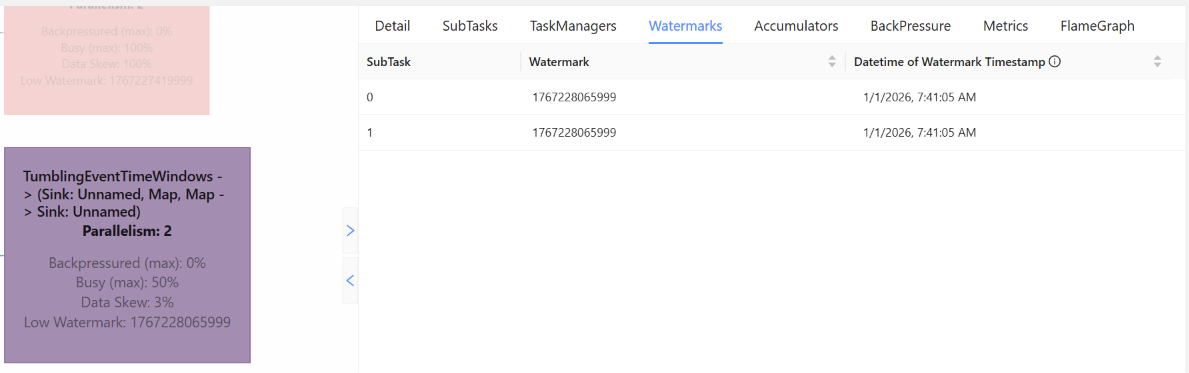
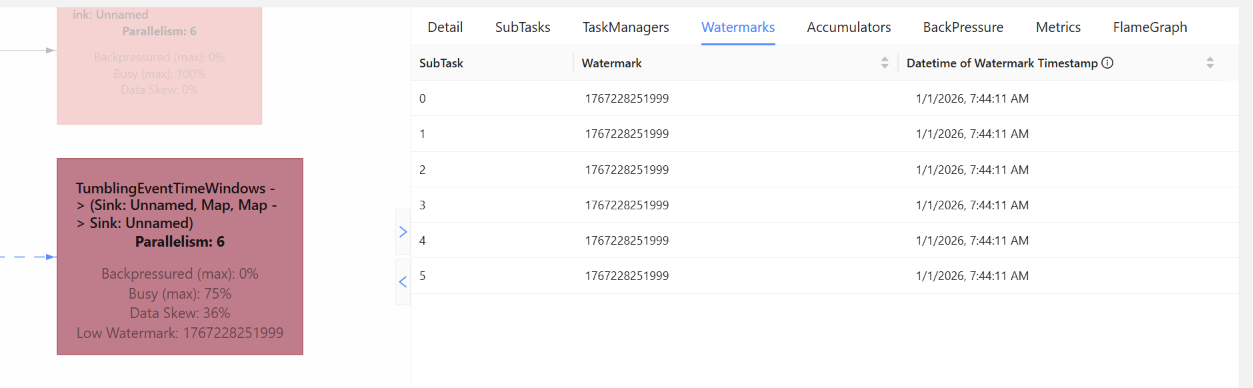
docs(edai-1): compare flink baseline and optimized runs against ground truth

diff --git a/docs/edai-1/processing_jobs.md b/docs/edai-1/processing_jobs.md
@@ -71,40 +71,77 @@ chạy tiếp. Log task đọc lại được trên Airflow UI nhờ remote logg
 
 **Cần nộp (cả nhóm):** Document giải thích từng step optimize từ baseline như thế nào, dùng Flink UI như thế nào (nhớ show hình ảnh để thấy rõ các vấn đề, và giải thích vấn đề)
 
-**Cách làm:** [Đã có] Cờ `BASELINE=True` chạy Flink với watermark 0 giây, không khử trùng. [Cần làm] chụp Flink UI: số event trễ bị bỏ và kết quả window sai.
+**Cách làm:** [Đã có] Cờ `BASELINE=True` chạy Flink với watermark 0 giây, không khử trùng. Chạy cả baseline và bản tối ưu trên GKE: baseline thừa đúng số bản gửi trùng (7.547 ngày 2026-01-01) và đẩy 8.326 event ra side output; bản tối ưu lệch truth 0,011%. Bảng đối soát, Flink UI (graph, backpressure) trong docs.
 
-**Kết quả:** bản tối ưu chạy trên GKE (2026-11-17, FlinkDeployment `booking-events-window`, parallelism 2, replay 30 ngày
-`booking_events` vào Kafka 6 partition, khoảng 83.600 event lúc chụp). Chưa chạy bản `BASELINE=True` để so sánh.
+**Kết quả:** Cả hai bản chạy trên GKE với cùng dữ liệu: replay `booking_events` (30 ngày, Kafka 6 partition) từ đầu topic,
+FlinkDeployment `booking-events-window` parallelism 6. Baseline chạy ngày 2026-11-17 (`BASELINE=1`, image
+`flink-booking:9850a46-2`), bản tối ưu chạy ngày 2026-11-18 (image `c93fff3-1`). Mỗi lần xoá 3 bảng stream rồi
+đọc lại từ offset đầu. `got` của một ngày = tổng `gold.stream_bookings_1m` + số dòng `gold.stream_late_bookings`
+có `event_time` trong ngày; truth là số booking hợp lệ đã khử trùng do `generator/stream_truth.py` tính từ event
+log, cắt tại 2026-01-03 01:00.
 
-![Offset 6 partition của topic booking_events](../images/edai-1/kafka-offsets.png)
+![Đối soát baseline, bản tối ưu và truth](../images/edai-1/flink-perday-compare.png)
 
-Đọc Flink UI: graph cho thấy source bị backpressure 98% trong khi `SlidingEventTimeWindows` bận 100%. Cửa sổ trượt
-1 giờ bước 5 phút đưa mỗi event vào 12 cửa sổ và chạy bằng Python, nên đây là nút cổ chai khi job đọc dồn backlog
-từ đầu topic. Khi đã đuổi kịp tốc độ replay, các operator về trạng thái OK (ảnh BackPressure).
+Baseline (watermark 0 giây, không khử trùng) cho thấy hai vấn đề:
+
+- **Đếm thừa.** Ngày 2026-01-01 baseline đếm 384.084, truth là 376.537: thừa đúng 7.547, bằng số bản gửi trùng
+  (double submit cùng `idempotency_key`) generator cài vào; ngày 2026-01-02 thừa 7.852 so với 7.437 bản trùng.
+- **Coi event lệch thứ tự là trễ.** Không chờ event đến lệch thứ tự nên 8.326 booking của ngày 01-01 (2,2%) bị đẩy
+  ra side output thay vì vào đúng cửa sổ phút.
+
+Các bước tối ưu, mỗi bước một vấn đề:
+
+1. **Parallelism = số partition Kafka (6).** Timestamp gán sau source; một subtask đọc nhiều partition thì watermark
+   chạy theo partition nhanh nhất, event của partition chậm thành trễ giả (đo với parallelism 2: 2.409 event trễ giả).
+2. **Watermark lệch 10 phút + allowed lateness 5 phút** (dòng 17): số event bị đẩy ra side output ngày 01-01 giảm từ
+   8.326 xuống 1.719.
+3. **Khử trùng theo `idempotency_key`** trước cửa sổ (dòng 18): phần đếm thừa từ 7.547 còn 43 (0,011%).
+4. **Contract trước watermark:** event sai (`event_time` ở tương lai) ra DLQ trước khi kịp đẩy watermark.
+5. **Đếm tăng dần bằng `AggregateFunction`**: state mỗi cửa sổ là một số nguyên thay vì danh sách event.
+6. **Unaligned checkpoint** và chặn autoscaler gỡ pod Flink: lúc đọc dồn backlog, barrier aligned kẹt sau buffer
+   đầy nên checkpoint không xong; restart khi đó mất toàn bộ tiến độ.
+
+Đọc Flink UI lúc đọc dồn backlog: source bị backpressure, `SlidingEventTimeWindows` bận 100% ở cả 6 subtask vì mỗi
+event vào 12 cửa sổ chồng nhau và chạy bằng Python, đó là nút cổ chai (ảnh BackPressure). Watermark của 6 subtask
+bằng nhau vì sau `key_by` mỗi subtask nhận watermark nhỏ nhất của các subtask phía trước.
 
 ![Job graph](../images/edai-1/flink-job-graph.png)
 
 ![BackPressure](../images/edai-1/flink-backpressure.png)
 
-Ba lỗi phải sửa để job chạy trên Kubernetes: jar connector tải bằng `ADD` có quyền 600 nên user `flink` không đọc
-được (`--chmod=644`); Python worker trên TaskManager không thấy module `contract` (`-pyfs /opt/flink/usrlib`); và sau
-`-pyfs` đường dẫn tương đối tới JSON Schema sai (`CONTRACT_PATH`).
+![Offset 6 partition của topic booking_events](../images/edai-1/kafka-offsets.png)
+
+Lỗi phải sửa để job chạy trên Kubernetes: jar connector tải bằng `ADD` có quyền 600 nên user `flink` không đọc được
+(`--chmod=644`); Python worker trên TaskManager không thấy module `contract` (`-pyfs /opt/flink/usrlib`); sau
+`-pyfs` đường dẫn tương đối tới JSON Schema sai (`CONTRACT_PATH`); `on_timer` của bước khử trùng trả `None` làm task
+lỗi khi timer dọn state kích hoạt (PyFlink cần iterable); autoscaler GKE gỡ JobManager khi thu node spot.
 
 <a id="edai-1-17"></a>
 ## Handle late arrival with explanation
 
 **Rubric:** edai-1 · dòng 17 · 3 điểm · nhóm *Processing Jobs* › *Flink job to handle streaming data problems (later in final coursework, we will merge this streaming pipeline into the feature store)*
 
-**Cách làm:** [Đã có] Nhánh đối soát tumbling 1 phút dùng watermark 10 phút, allowed lateness 5 phút và side output ghi vào `gold.stream_late_bookings`; cửa sổ trượt 1 giờ chỉ đẩy event ra side output khi trễ quá 1 giờ 15 phút. Test e2e trên Docker xác nhận số đếm cộng side output bằng tổng thật của từng phút. Trên PyFlink 1.20, timestamp được gán sau source và không dùng `with_idleness`, vì thực nghiệm cho thấy idleness làm watermark đứng yên. [Cần làm] lập bảng số event vào side output của baseline và bản tối ưu theo từng nguồn trễ; giải thích lý do chọn 10 phút.
+**Cách làm:** [Đã có] Nhánh đối soát tumbling 1 phút dùng watermark 10 phút, allowed lateness 5 phút và side output ghi vào `gold.stream_late_bookings`; cửa sổ trượt 1 giờ chỉ đẩy event ra side output khi trễ quá 1 giờ 15 phút. Test e2e trên Docker xác nhận số đếm cộng side output bằng tổng thật của từng phút. Trên PyFlink 1.20, timestamp được gán sau source và không dùng `with_idleness`, vì thực nghiệm cho thấy idleness làm watermark đứng yên. Bảng số event vào side output của baseline (8.326) và bản tối ưu (1.719) ngày 2026-01-01, lý do chọn 10 phút theo phân phối độ trễ từng nguồn, ảnh watermark 6 subtask trong docs.
 
-**Kết quả:** watermark của hai subtask đi đều nhau (ảnh Watermarks). Lúc chụp, `gold.stream_bookings_1m` có 2.819 dòng
-(hotel × phút) và side output `gold.stream_late_bookings` có 2.409 event trễ quá watermark 10 phút + allowed lateness
-5 phút. Tỉ lệ trễ này cao hơn nhiều so với lượng trễ generator cài vào. Giả thuyết (chưa kiểm chứng): job đọc dồn
-backlog từ đầu topic, watermark gán sau source nên lấy theo partition đọc nhanh nhất trong subtask, event của
-partition đọc chậm hơn bị tính là trễ. Cần đối chiếu với cột `violation`/độ trễ trong event log, và đếm lại khi
-job đã đuổi kịp replay.
+**Kết quả:** cùng lần chạy ở dòng 16. Số event bị đẩy ra side output (`late`) theo ngày:
 
-![Watermarks](../images/edai-1/flink-watermarks.png)
+| Ngày | Baseline (watermark 0s) | Tối ưu (10 phút + 5 phút) | Truth: trễ > 15 phút theo `ingest_time − event_time` |
+|---|---|---|---|
+| 2026-01-01 | 8.326 | 1.719 | 25.934 |
+| 2026-01-02 | 7.339 | 615 | 25.881 |
+
+Watermark 10 phút cộng allowed lateness 5 phút nhận lại event trễ tới 15 phút: theo bảng độ trễ ở dòng 9, phần lớn
+event mobile trễ 5–20 phút (trễ quá 10 phút: 20,09%, quá 15 phút: 10,03% số event mobile), webhook thanh toán trễ
+tối đa 15 phút. Chờ lâu hơn làm feature `bookings_1h` chậm thêm tương ứng; chờ 1–4 giờ cho channel manager (1% booking)
+thì feature không còn "realtime", nên các event đó đi vào side output và vẫn được ghi lại để đối soát.
+
+Số event vào side output của bản tối ưu thấp hơn nhiều so với số trễ quá 15 phút theo giờ ingest (truth). Lý do: job
+đọc dồn backlog từ đầu topic, 6 partition được đọc với tốc độ khác nhau và watermark sau `key_by` là watermark nhỏ nhất,
+nên khi một event trễ tới thì watermark thường chưa vượt qua cửa sổ của nó. Khi chạy theo kịp tốc độ replay, số
+`late` sẽ tiến về con số truth. Bảng `stream_late_bookings` không lưu nguồn (channel) của event nên chưa tách được
+số trễ theo từng nguồn.
+
+![Watermarks của 6 subtask](../images/edai-1/flink-watermarks.png)
 
 ![gold.stream_late_bookings](../images/edai-1/flink-late-bookings.png)
 
@@ -113,11 +150,23 @@ job đã đuổi kịp replay.
 
 **Rubric:** edai-1 · dòng 18 · 3 điểm · nhóm *Processing Jobs* › *Flink job to handle streaming data problems (later in final coursework, we will merge this streaming pipeline into the feature store)*
 
-**Cách làm:** [Đã có] `DedupByEventId` với state TTL 1 giờ. [Cần làm] chạy và đếm event trùng trước, sau khi khử; chụp state size trên Flink UI.
+**Cách làm:** [Đã có] `DedupByEventId` theo `idempotency_key`, timer xoá state khi watermark qua `event_time` + 5 giờ. Trên GKE phần đếm thừa giảm từ 7.547 (baseline) còn 43; checkpoint unaligned 20,2 MB, ảnh trong docs.
 
-**Kết quả:** data contract chặn event sai trước watermark: event thiếu `event_time` vào topic `booking_events_dlq`
-kèm `reason`. Checkpoint EXACTLY_ONCE lên MinIO hoàn tất (checkpoint 1: 22,6 MB, 10/10 task). Chưa đếm event trùng
-trước và sau dedup.
+**Kết quả:** cùng lần chạy ở dòng 16.
+
+| Ngày | Bản gửi trùng (truth) | Baseline thừa | Tối ưu thừa |
+|---|---|---|---|
+| 2026-01-01 | 7.547 | +7.547 | +43 |
+| 2026-01-02 | 7.437 | +7.852 | −18 |
+
+Baseline đếm cả bản gửi lại, nên thừa đúng bằng số bản trùng. `DedupByEventId` giữ một cờ `seen` cho mỗi
+`idempotency_key` và đăng ký timer xoá cờ khi watermark qua `event_time` + 5 giờ, nên state không tăng mãi; bản tối ưu
+còn lệch 0,011% và 0,005%. Phần lệch nhỏ còn lại do job restart 3 lần trong lúc chạy (lỗi timer, autoscaler gỡ
+JobManager, apply cấu hình): sink JDBC là at-least-once, event đã ghi vào `stream_late_bookings` trước restart có thể
+được đếm lại trong cửa sổ khi đọc lại từ checkpoint với watermark khác. Ngày 2025-12-31 là biên đầu replay (+173).
+
+Data contract chặn event sai trước watermark: event thiếu `event_time` vào topic `booking_events_dlq` kèm `reason`.
+Checkpoint unaligned EXACTLY_ONCE lên MinIO hoàn tất đều đặn (khoảng 1 phút mỗi lần, 20,2 MB, 5 operator đều 6/6).
 
 ![DLQ](../images/edai-1/flink-dlq.png)
 

diff --git a/docs/README.md b/docs/README.md
@@ -35,9 +35,9 @@ Hiện toàn bộ hệ thống mới được chạy cục bộ (Docker, pyspark
 | 13 | 3 | Handle schema evolution with explanation | [edai-1/processing_jobs.md](edai-1/processing_jobs.md#edai-1-13) | Đã có · chờ cluster |
 | 14 | 3 | Handle other offline data problem with explanation | [edai-1/processing_jobs.md](edai-1/processing_jobs.md#edai-1-14) | Đã có · chờ cluster |
 | 15 | 2 | Spark job được tích hợp vào các data pipeline | [edai-1/processing_jobs.md](edai-1/processing_jobs.md#edai-1-15) | Đã có |
-| 16 | 2 | Baseline | [edai-1/processing_jobs.md](edai-1/processing_jobs.md#edai-1-16) | Đã có · chờ cluster |
-| 17 | 3 | Handle late arrival with explanation | [edai-1/processing_jobs.md](edai-1/processing_jobs.md#edai-1-17) | Đã có · Cần làm |
-| 18 | 3 | Handle other streaming problem with explanation | [edai-1/processing_jobs.md](edai-1/processing_jobs.md#edai-1-18) | Đã có · chờ cluster |
+| 16 | 2 | Baseline | [edai-1/processing_jobs.md](edai-1/processing_jobs.md#edai-1-16) | Đã có |
+| 17 | 3 | Handle late arrival with explanation | [edai-1/processing_jobs.md](edai-1/processing_jobs.md#edai-1-17) | Đã có |
+| 18 | 3 | Handle other streaming problem with explanation | [edai-1/processing_jobs.md](edai-1/processing_jobs.md#edai-1-18) | Đã có |
 | 19 | 2 | Window processing | [edai-1/processing_jobs.md](edai-1/processing_jobs.md#edai-1-19) | Đã có |
 | 20 | 3 | Lakehouse | [edai-1/data_storage.md](edai-1/data_storage.md#edai-1-20) | Đã có · Thiết kế · Cần làm |
 | 21 | 3 | Datawarehouse | [edai-1/data_storage.md](edai-1/data_storage.md#edai-1-21) | Đã có · Cần làm |
@@ -59,7 +59,7 @@ Hiện toàn bộ hệ thống mới được chạy cục bộ (Docker, pyspark
 | 37 | 2 | Relationship between dim & fact tables | [edai-1/schema_design.md](edai-1/schema_design.md#edai-1-37) | Đã có · Cần làm |
 | 38 | 2 | Naming convention | [edai-1/schema_design.md](edai-1/schema_design.md#edai-1-38) | Đã có · Cần làm |
 | 39 | 10 | Idea 1 | [edai-1/novel_ideas.md](edai-1/novel_ideas.md#edai-1-39) | — |
-| 40 | 10 | Idea 2 | [edai-1/novel_ideas.md](edai-1/novel_ideas.md#edai-1-40) | chờ cluster |
+| 40 | 10 | Idea 2 | [edai-1/novel_ideas.md](edai-1/novel_ideas.md#edai-1-40) | — |
 
 ## edai-2
 

diff --git a/docs/edai-1/README.md b/docs/edai-1/README.md
@@ -28,9 +28,9 @@
 | 13 | 3 | Handle schema evolution with explanation | [processing_jobs.md](processing_jobs.md#edai-1-13) | Đã có · chờ cluster |
 | 14 | 3 | Handle other offline data problem with explanation | [processing_jobs.md](processing_jobs.md#edai-1-14) | Đã có · chờ cluster |
 | 15 | 2 | Spark job được tích hợp vào các data pipeline | [processing_jobs.md](processing_jobs.md#edai-1-15) | Đã có |
-| 16 | 2 | Baseline | [processing_jobs.md](processing_jobs.md#edai-1-16) | Đã có · chờ cluster |
-| 17 | 3 | Handle late arrival with explanation | [processing_jobs.md](processing_jobs.md#edai-1-17) | Đã có · Cần làm |
-| 18 | 3 | Handle other streaming problem with explanation | [processing_jobs.md](processing_jobs.md#edai-1-18) | Đã có · chờ cluster |
+| 16 | 2 | Baseline | [processing_jobs.md](processing_jobs.md#edai-1-16) | Đã có |
+| 17 | 3 | Handle late arrival with explanation | [processing_jobs.md](processing_jobs.md#edai-1-17) | Đã có |
+| 18 | 3 | Handle other streaming problem with explanation | [processing_jobs.md](processing_jobs.md#edai-1-18) | Đã có |
 | 19 | 2 | Window processing | [processing_jobs.md](processing_jobs.md#edai-1-19) | Đã có |
 | 20 | 3 | Lakehouse | [data_storage.md](data_storage.md#edai-1-20) | Đã có · Thiết kế · Cần làm |
 | 21 | 3 | Datawarehouse | [data_storage.md](data_storage.md#edai-1-21) | Đã có · Cần làm |
@@ -52,4 +52,4 @@
 | 37 | 2 | Relationship between dim & fact tables | [schema_design.md](schema_design.md#edai-1-37) | Đã có · Cần làm |
 | 38 | 2 | Naming convention | [schema_design.md](schema_design.md#edai-1-38) | Đã có · Cần làm |
 | 39 | 10 | Idea 1 | [novel_ideas.md](novel_ideas.md#edai-1-39) | — |
-| 40 | 10 | Idea 2 | [novel_ideas.md](novel_ideas.md#edai-1-40) | chờ cluster |
+| 40 | 10 | Idea 2 | [novel_ideas.md](novel_ideas.md#edai-1-40) | — |
